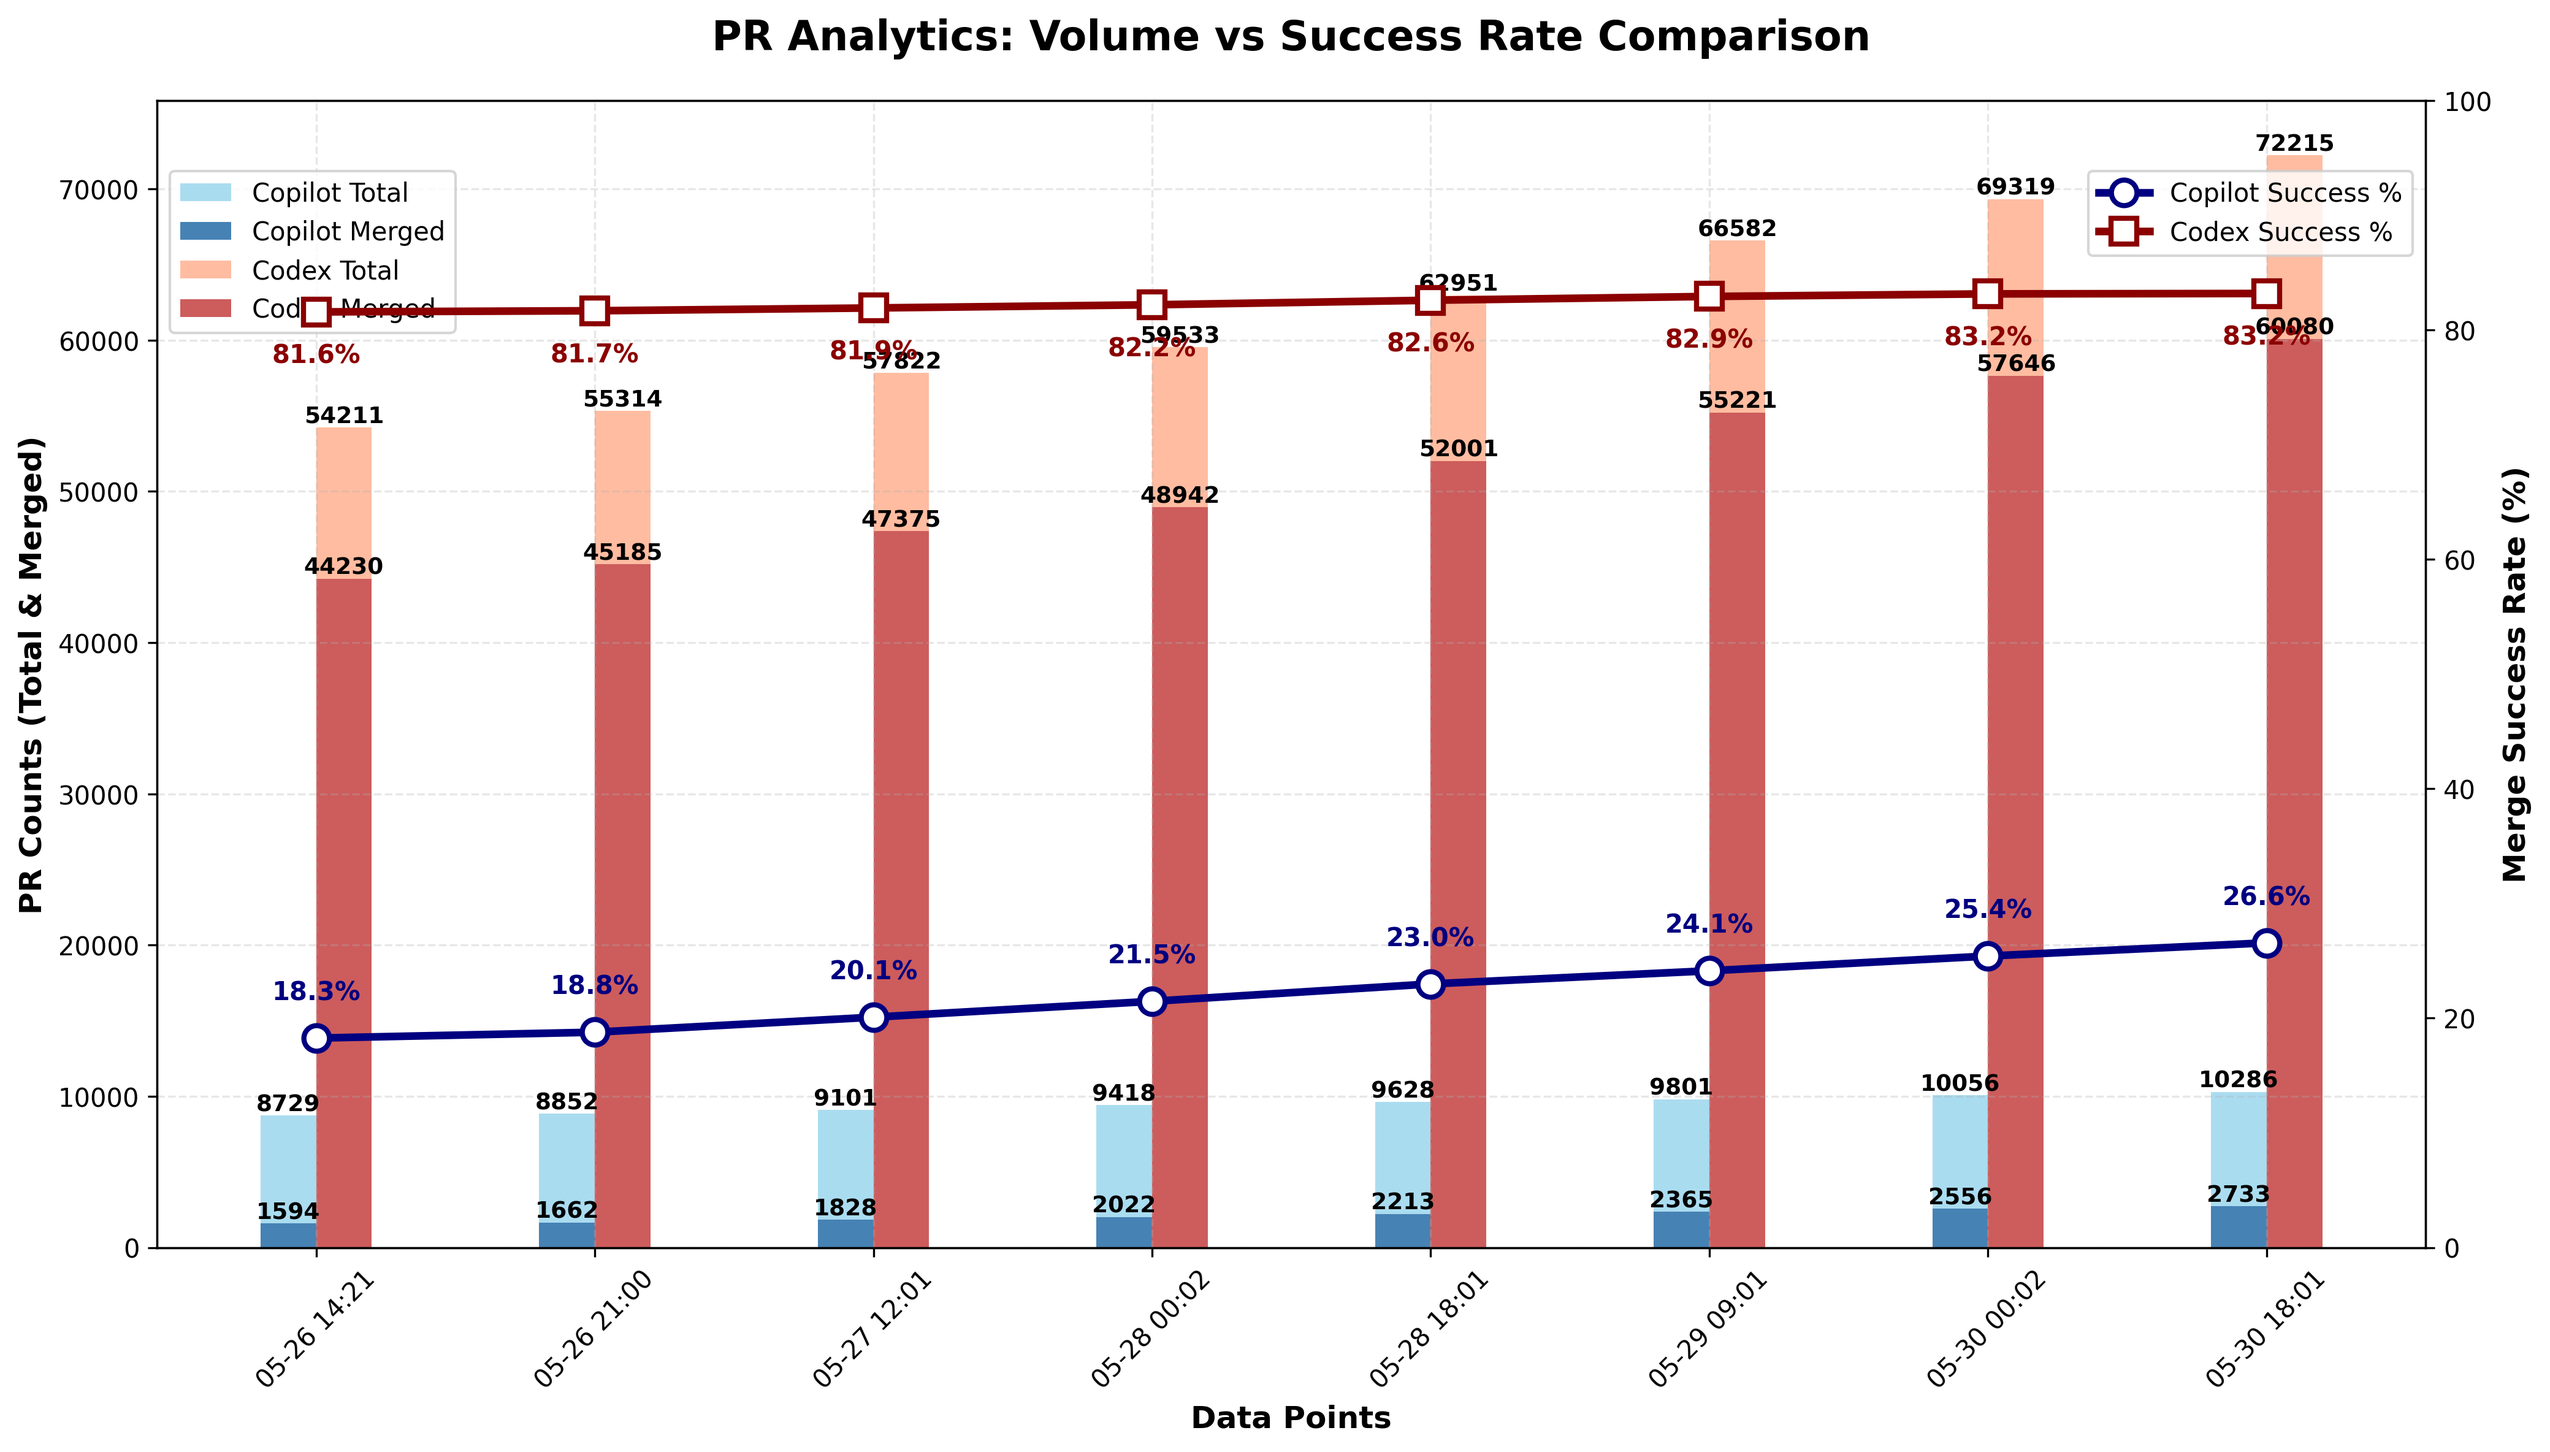
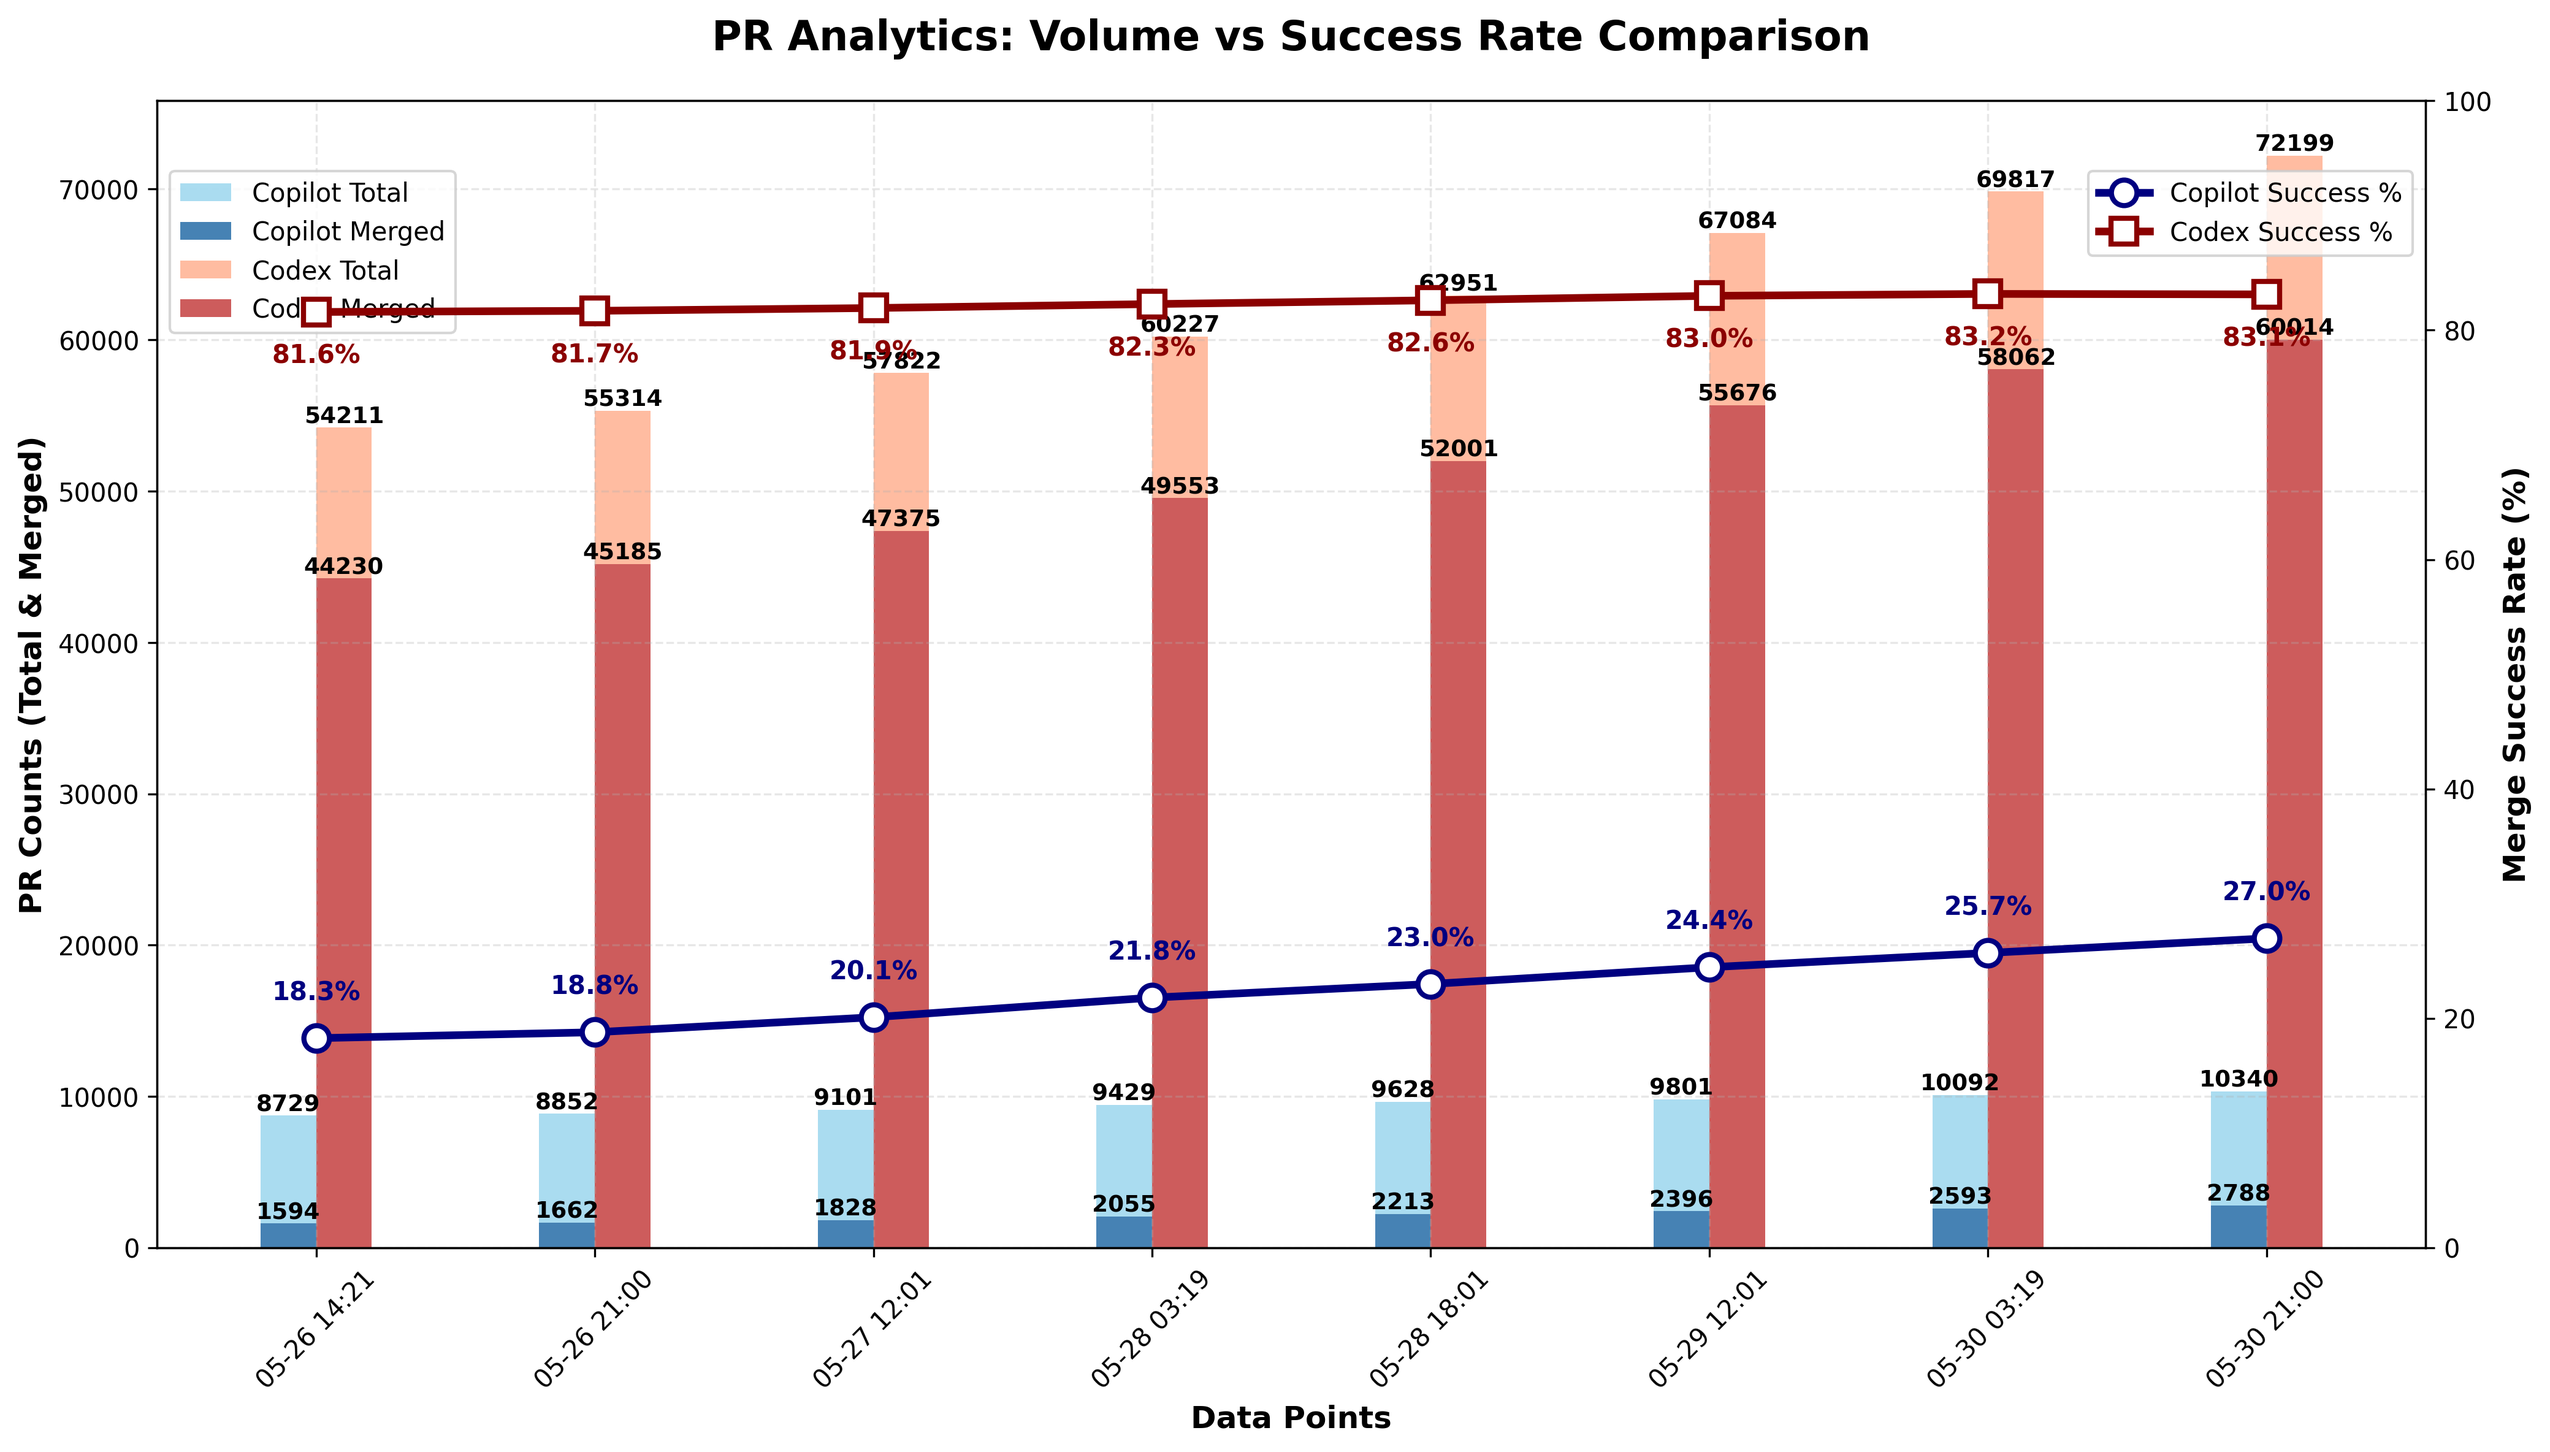
chore: update PR‑approval chart

diff --git a/docs/index.html b/docs/index.html
@@ -44,22 +44,22 @@
                 <tbody>
                     <tr>
                         <td>Copilot</td>
-                        <td>10,286</td>
-                        <td>2,733</td>
-                        <td>26.57%</td>
+                        <td>10,340</td>
+                        <td>2,788</td>
+                        <td>26.96%</td>
                     </tr>
                     <tr>
                         <td>Codex</td>
-                        <td>72,215</td>
-                        <td>60,080</td>
-                        <td>83.20%</td>
+                        <td>72,199</td>
+                        <td>60,014</td>
+                        <td>83.12%</td>
                     </tr>
                 </tbody>
             </table>
         </section>
 
         <footer>
-            <p>Last updated: <span id="last-updated">May 30, 2025 18:01 UTC</span></p>
+            <p>Last updated: <span id="last-updated">May 30, 2025 21:00 UTC</span></p>
             <p><a href="https://github.com/aavetis/ai-pr-watcher">View on GitHub</a></p>
         </footer>
     </div>

diff --git a/README.md b/README.md
@@ -19,5 +19,5 @@ Explore the GitHub search queries used:
 
 | Project | Total PRs | Merged PRs | Merge Rate |
 | ------- | --------- | ---------- | ---------- |
-| Copilot | 10,286 | 2,733 | 26.57% |
-| Codex   | 72,215 | 60,080 | 83.20% |
+| Copilot | 10,340 | 2,788 | 26.96% |
+| Codex   | 72,199 | 60,014 | 83.12% |
